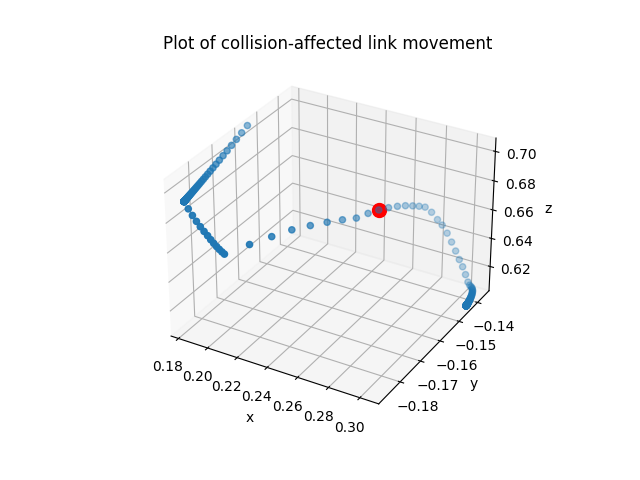
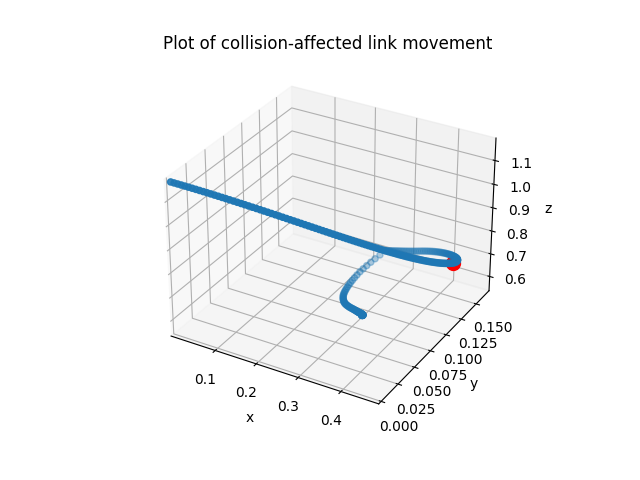
Slowed down the Simulation

Changed region(s): [[0.2188, 0.1875, 0.8438, 0.9062], [0.375, 0.8125, 0.5625, 0.9062]]

diff --git a/main.py b/main.py
@@ -33,32 +33,37 @@ def main():
     # Get the number of joints
     num_joints = p.getNumJoints(robot)
 
+    duration=5
+    time_step = 1/240
+    p.setTimeStep(time_step)
+
+    simulation_steps = int(duration/time_step)
+
     # Give the final orientation and joint positions of the robot
     final_orientation = p.getQuaternionFromEuler([3.14, 0, 0])
     final_joint_positions = p.calculateInverseKinematics(robot,
                                                          7,
                                                          [0.1, 0.1, 0.4],
-                                                         targetOrientation=final_orientation
+                                                         targetOrientation=final_orientation,
+                                                         maxNumIterations = 5*simulation_steps
                                                          )
+    
+    print(final_joint_positions)
 
-    # Set all joints to the final desired position
-    p.setJointMotorControlArray(robot,
-                                range(7),
-                                p.POSITION_CONTROL,
-                                targetPositions=final_joint_positions
-                                )
+    duration = 20  # Duration in seconds
+    change=[]
+    for jointIndex in range(num_joints-2):
+        #targetPositions[jointIndex] = jointPositions[jointIndex]  # Set initial target positions to starting configuration
+        change.append(final_joint_positions[jointIndex] / duration)  # Calculate increment for each joint
+    print(change)
 
-    time_step = 1/240
-    p.setTimeStep(time_step)
-
-    simulation_steps = 1000
 
     p_0 = None
     r_0 = None
     previous_velocities = None
     selected_link = None
 
-    gain_values = [0.01] * 7
+    gain_values = [0.007] * 7
     gain_matrix = np.diag(gain_values)
     # print(gain_matrix)
 
@@ -70,11 +75,26 @@ def main():
     kinetic_energy = []
 
     # Display in the simulation how the robot goes from initial position, to our desired position
-    for i in range(simulation_steps):
-
+    #for i in range(simulation_steps):
+    startTime = time.time()
+    i=-1
+    force_not_applied=True
+    while int(time.time() - startTime) < duration:
+        i=i+1
+        #print(i)
+        
         p.stepSimulation()
+        time.sleep(time_step)
 
-        current_time = i * time_step
+        if force_not_applied:
+            curr_pos = [state[0] for state in  p.getJointStates(robot, range(7))]
+            move = [ele1+ele2 for ele1,ele2 in zip(curr_pos,change)]
+            # Set all joints to the final desired position
+            for jointIndex in range(num_joints):
+                p.setJointMotorControlArray(robot, range(7), p.POSITION_CONTROL, move)
+
+        current_time = time.time()-startTime
+        #print(current_time)
         time_steps.append(current_time)
         # print(f"Time step: {current_time}")
 
@@ -160,8 +180,16 @@ def main():
 
         # print(f"Joint accelerations: {joint_accelerations}")
 
+        # Calculate joint forces acting on the robot - This involves the Centrifugal Coriolis and the gravity forces together. 
+        joint_torques = p.calculateInverseDynamics(robot, list(joint_positions), list(joint_velocities), list(joint_accelerations))
+        joint_torques_gravity = p.calculateInverseDynamics(robot, list(joint_positions), list(joint_velocities), [0.0] * len(joint_positions))
+
+        joint_torques_coriolis = [total_torque - gravity_torque for total_torque, gravity_torque in zip(joint_torques, joint_torques_gravity)]
+
+        #print("C:",joint_torques_coriolis)
+
         #################################################################
-        C = compute_coriolis_matrix(robot, joint_positions, joint_velocities, joint_accelerations)
+        #C = compute_coriolis_matrix(robot, joint_positions, joint_velocities, joint_accelerations)
 
         # print(f"Coriolis Matrix: {C}")
         # print(f"Coriolis matrix shape: {C.shape}")
@@ -198,7 +226,8 @@ def main():
 
         #################################################################
 
-        if i == collision_index:
+        if current_time > 12 and force_not_applied:
+            force_not_applied = False
             # Retrieve the link positions and orientations
             link_states = p.getLinkStates(robot, range(7))
 
@@ -233,13 +262,15 @@ def main():
 
         ##################### Algorithm ################################
 
-        tau = np.dot(inertia_matrix, joint_accelerations) + np.dot(C, joint_velocities)
+        #tau = np.dot(inertia_matrix, joint_accelerations) + joint_torques_coriolis + joint_torques_gravity
 
         # print(f"Torque: {tau}")
 
         last_residual = residuals[-1]
 
-        integral_sum = tau + np.dot(np.transpose(C), joint_velocities) + np.array(last_residual)
+        #integral_sum = tau + np.dot(np.transpose(C), joint_velocities) + np.array(last_residual)
+        #integral_sum = tau + joint_torques_coriolis+ joint_torques_gravity +  np.array(last_residual)
+        integral_sum = joint_torques_coriolis +  np.array(last_residual)
         integral = integral_sum * current_time
 
         final_sum = p_t - integral - p_0
@@ -247,6 +278,14 @@ def main():
         new_residual = np.dot(gain_matrix, final_sum)
 
         residuals.append(new_residual)
+        threshold = 40
+        if any(abs(num) > threshold for num in new_residual):
+            result_index = find_index_closer_to_zero(new_residual)
+            if result_index is not None:
+                print(new_residual)
+                print("Index of the high number with subsequent numbers closer to 0:", result_index)
+            else:
+                print("No high number found with subsequent numbers closer to 0.")
 
         # print(f"New residual: {new_residual}")
 
@@ -254,23 +293,23 @@ def main():
 
         # TODO: Stop the simulation based on residuals
 
-        if current_time > 1.0:
-            break
+        # if current_time > 1.0:
+        #     break
 
-        # time.sleep(0.25)
+        #time.sleep(0.25)
 
     # Remove initial residual value
     residuals.pop(0)
 
-    print(time_steps)
+    #print(time_steps)
 
-    index = time_steps.index(0.0875)
+    # index = time_steps.index(0.0875)
 
-    time_steps = time_steps[index:]
-    residuals = residuals[index:]
-    all_momenta = all_momenta[index:]
-    all_joint_velocities = all_joint_velocities[index:]
-    kinetic_energy = kinetic_energy[index:]
+    # time_steps = time_steps[index:]
+    # residuals = residuals[index:]
+    # all_momenta = all_momenta[index:]
+    # all_joint_velocities = all_joint_velocities[index:]
+    # kinetic_energy = kinetic_energy[index:]
 
     plot_graph("Plot of residuals over time",
                "residuals",
@@ -305,7 +344,7 @@ def main():
     plt.clf()
 
     positions = all_link_positions[selected_link]
-    positions = positions[index:]
+    #positions = positions[index:]
     plot_3d_graph("Plot of collision-affected link movement",
                   "link_movement",
                   "Euclidean distance",
@@ -405,6 +444,22 @@ def plot_3d_graph(title, figure_name, variable_name, variables):
     ax.set_title(title)
 
     plt.savefig(figure_name+".png")
+
+def find_index_closer_to_zero(numbers):
+    for i in range(len(numbers) - 1):
+        current_value = numbers[i]
+        next_values = numbers[i + 1:]
+
+        if all(abs(current_value) <= abs(value) for value in next_values):
+            return i
+
+    # If no such index is found, return -1 or raise an exception
+    return -1
+
+    return highest_index
+
+
+
 
 
 if __name__ == '__main__':
